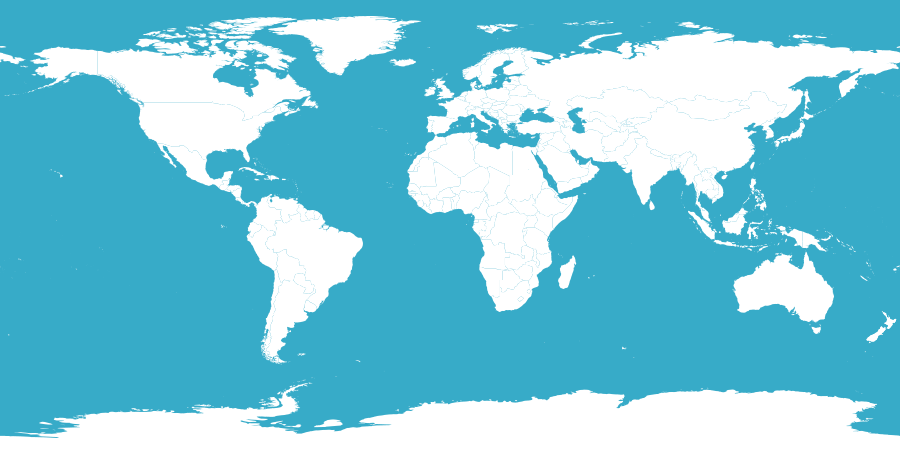
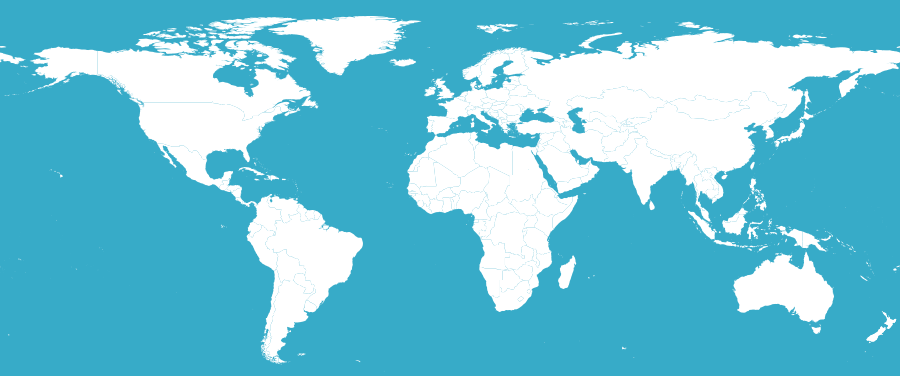
yerel saat kısmında alttan seçim olunca da pin ilgili yere sabitlenecek.

diff --git a/limelib/gui/widget/worldmapwidget.py b/limelib/gui/widget/worldmapwidget.py
@@ -6,11 +6,12 @@ import json
 class WorldMapWidget(QWidget):
 
     zone = pyqtSignal(str, str)
+    zoneName = pyqtSignal(str)
 
     def __init__(self, parent=None):
         super().__init__()
         self.parent = parent
-        self.setFixedSize(900, 450)
+        self.setFixedSize(900, 376)
         self.world_image = QPixmap(":/images/locale/world.png")
         self.pin_image = QPixmap(":/images/locale/pin.png")
         self.pin_point = QPoint(-50, -50)
@@ -29,8 +30,9 @@ class WorldMapWidget(QWidget):
 
         for zone, coordinats in self.coordinat_list.items():
             pos = self.locationToPosition(coordinats[1], coordinats[0], zone)
-            print(pos)
             self.coordinat_to_position[pos[0]] = pos[1]
+
+        self.zoneName.connect(self.pinPush)
 
     def search(self, x, y):
         deger = 1000
@@ -43,9 +45,10 @@ class WorldMapWidget(QWidget):
 
         return returner
 
-    def locationToPosition(self, longitude, latitude, time_zone):
+    def locationToPosition(self, longitude, latitude, time_zone=""):
+        height = 450 #orjinalindeki yükseklik. antartikayı kesince hesaplamada bu baz alınacak.
         x = (self.width()/2)*(longitude/180)+(self.width()/2)
-        y = (self.height()/2)-((self.height()/2)*(latitude/90))
+        y = (height/2)-((height/2)*(latitude/90))
         return ((x, y), time_zone)
 
     def mousePressEvent(self, event):
@@ -58,6 +61,12 @@ class WorldMapWidget(QWidget):
             self.zone.emit(a[0], b)
         self.update()
 
+    def pinPush(self, zone_name):
+        pos = self.coordinat_list[zone_name]
+        coordinat = self.locationToPosition(pos[-1], pos[0])
+        self.pin_point.setX(coordinat[0][0] - (self.pin_image.width() // 2))
+        self.pin_point.setY(coordinat[0][1] - (self.pin_image.height() // 2))
+        self.update()
 
     def paintEvent(self, event):
         painter = QPainter(self)

diff --git a/limelib/gui/location.py b/limelib/gui/location.py
@@ -85,8 +85,10 @@ class LocationWidget(QWidget):
 
         self.cBox.currentTextChanged.connect(self.zoneChanged)
         self.iBox.currentTextChanged.connect(self.cityChanged)
+        self.worldMap.zoneName.emit("{}/{}".format(self.cBox.currentText(), self.iBox.currentText()))
         self.parent.languageChanged.connect(self.retranslate)
         self.worldMap.zone.connect(self.zoneChange)
+
 
         self.retranslate()
 
@@ -100,11 +102,14 @@ class LocationWidget(QWidget):
         self.iBox.setCurrentText(b)
 
     def zoneChanged(self, zone):
-        self.iBox.clear()
         info = zone_info[self.cBox.currentText()]
         info.sort()
+        self.iBox.clear()
         self.iBox.addItems(info)
         self.parent.lilii_settings["timezone"] = "{}/{}".format(self.cBox.currentText(), self.iBox.currentText())
+        self.worldMap.zoneName.emit("{}/{}".format(self.cBox.currentText(), self.iBox.currentText()))
 
     def cityChanged(self, city):
         self.parent.lilii_settings["timezone"] = "{}/{}".format(self.cBox.currentText(), self.iBox.currentText())
+        if self.iBox.currentText():
+            self.worldMap.zoneName.emit("{}/{}".format(self.cBox.currentText(), self.iBox.currentText()))

diff --git a/limelib/gui/widget/keyboardlabel.py b/limelib/gui/widget/keyboardlabel.py
@@ -83,7 +83,6 @@ class KeyboardLabel(QLabel):
                 coordinat = coordinat_list[count]
                 count += 1
                 for num, key in enumerate(key_list):
-                    print(num)
                     try:
                         font = painter.font()
                         font.setPointSize(12)

diff --git a/limelib/gui/install.py b/limelib/gui/install.py
@@ -451,6 +451,9 @@ class Install(QThread):
 
         #gdm
         #sddm
+        #lxdm
+        #mdm
+        #slim
 
         #XOrg
         #self.chroot_command("Xorg :1 -configure")
